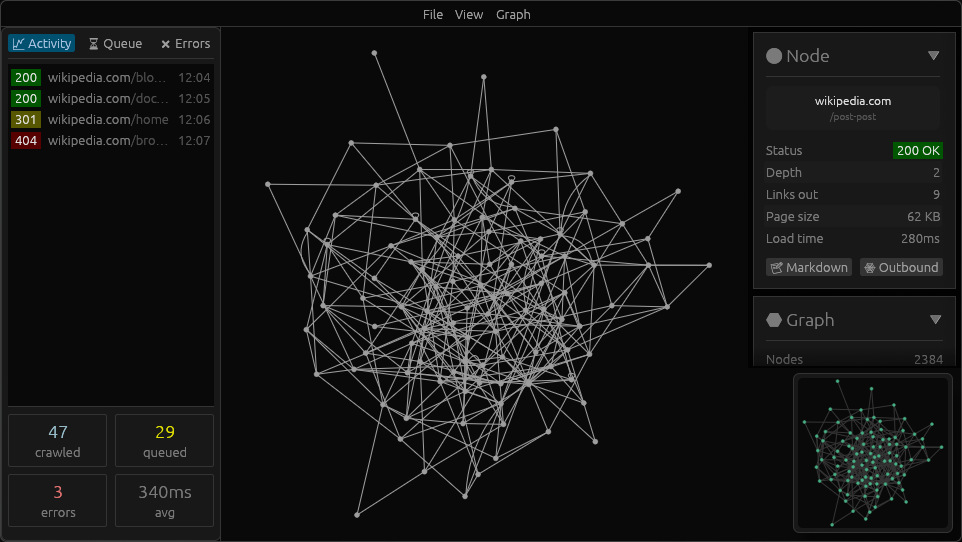
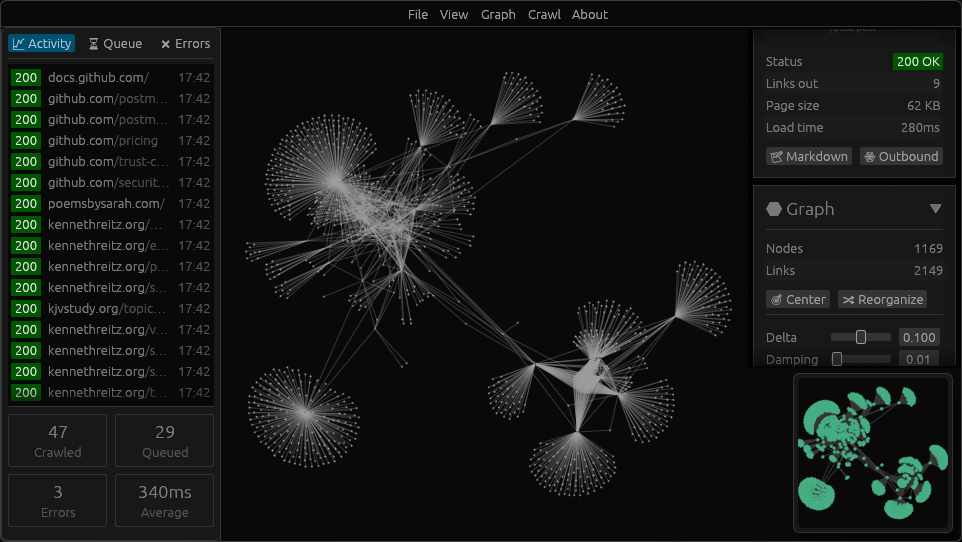
new screenshot. improved graph configs. small crawler http fix

diff --git a/src/gui.rs b/src/gui.rs
@@ -65,6 +65,7 @@ pub struct ViewEgui {
     hubs_expanded: bool,
     broken_expanded: bool,
     graph_expanded: bool,
+    graph_show_advanced: bool,
     //
     show_crawl_window: bool,
     crawl_input_url: String,
@@ -118,9 +119,9 @@ eheu lupos ferocis raptatur altis bicorni Flentibus soror! Scilicet tollit.
         let state = GraphState {
             is_running: true,
             //
-            delta: 0.100, // delta: 0.050,
-            damping: 0.01, // damping: 0.30,
-            max_step: 3.0, // max_step: 10.0,
+            delta: 0.100,   // delta: 0.050,
+            damping: 0.01,  // damping: 0.30,
+            max_step: 3.0,  // max_step: 10.0,
             epsilon: 0.015, // epsilon: 0.0010,
             //
             k_scale: 3.0, // k_scale: 1.0,
@@ -144,6 +145,7 @@ eheu lupos ferocis raptatur altis bicorni Flentibus soror! Scilicet tollit.
             hubs_expanded: true,
             broken_expanded: true,
             graph_expanded: true,
+            graph_show_advanced: true,
             //
             show_crawl_window: false,
             crawl_input_url: String::from("https://httpbin.org/"),
@@ -282,6 +284,8 @@ impl ViewEgui {
             match message {
                 AppResponse::Crawler(event) => match event {
                     // TODO: clean this up
+                    // TODO: instead of a node per url, have the nodes be domains and when
+                    // clicking in one a new graph is shown for all the /path pages in it.
                     CrawlEvent::Page(metadata) => {
                         // activity tab.
                         // push element. limit the ammount.
@@ -435,13 +439,12 @@ impl ViewEgui {
                             });
 
                             ui.menu_button("Graph", |ui| {
-                                if ui.button("🔄 Center").clicked() {
+                                if ui.button("🎯 Center").clicked() {
                                     self.free_graph_movement = !self.free_graph_movement;
                                     println!("Center");
                                 }
-                                if ui.button("🔄 Reorganize").clicked() {
-                                    // TODO:
-                                    // Self::distribute_nodes_circle_generic(&mut self.graph);
+                                if ui.button("🔀 Reorganize").clicked() {
+                                    Self::distribute_nodes_circle_generic(&mut self.graph);
                                     println!("Reorganize");
                                 }
                             });
@@ -633,7 +636,12 @@ impl ViewEgui {
                                                                     ui.spacing_mut()
                                                                         .item_spacing
                                                                         .x = 0.0;
-                                                                    ui.label(entry.domain.clone());
+                                                                    ui.add(
+                                                                        egui::Label::new(
+                                                                            entry.domain.clone(),
+                                                                        )
+                                                                        .truncate(),
+                                                                    );
                                                                     let weak_color = ui
                                                                         .visuals()
                                                                         .weak_text_color();
@@ -1168,6 +1176,9 @@ impl ViewEgui {
                                 ui.separator();
                                 ui.add_space(4.0);
                                 //
+                                let spacing = ui.spacing_mut();
+                                spacing.slider_width = 60.0; // Adjust this number until it fits your card
+                                //
                                 egui::Grid::new("graph_details_grid")
                                     .num_columns(2)
                                     .striped(true)
@@ -1191,82 +1202,104 @@ impl ViewEgui {
 
                                 ui.horizontal(|ui| {
                                     // NOTE: icons needed
-                                    if ui.button("@ Center").clicked() {
+                                    if ui.button("🎯 Center").clicked() {
                                         self.free_graph_movement = !self.free_graph_movement;
                                     }
-                                    if ui.button("@ Reorganize").clicked() {
+                                    if ui.button("🔀 Reorganize").clicked() {
                                         Self::distribute_nodes_circle_generic(&mut self.graph);
                                     }
                                 });
+
+                                ui.separator();
+                                ui.add_space(8.0);
                                 ///////////////
-                                let mut state = egui_graphs::get_layout_state::<
-                                    FruchtermanReingoldWithCenterGravityState,
-                                >(ui, None);
+                                if self.graph_show_advanced {
+                                    let mut state = egui_graphs::get_layout_state::<
+                                        FruchtermanReingoldWithCenterGravityState,
+                                    >(ui, None);
 
-                                ui.horizontal(|ui| {
-                                    ui.checkbox(&mut self.graph_state.is_running, "running");
-                                });
-                                ui.horizontal(|ui| {
-                                    ui.add(
-                                        egui::Slider::new(&mut self.graph_state.delta, 0.001..=0.2), // .text("dt"),
-                                    );
-                                });
-                                ui.horizontal(|ui| {
-                                    ui.add(
-                                        egui::Slider::new(&mut self.graph_state.damping, 0.0..=1.0), // .text("damping"),
-                                    );
-                                });
-                                ui.horizontal(|ui| {
-                                    ui.add(
-                                        egui::Slider::new(
-                                            &mut self.graph_state.max_step,
-                                            0.1..=50.0,
-                                        ), // .text("max_step"),
-                                    );
-                                });
-                                ui.horizontal(|ui| {
-                                    ui.add(
-                                        egui::Slider::new(
-                                            &mut self.graph_state.epsilon,
-                                            1e-5..=1e-1,
-                                        )
-                                        .logarithmic(true), // .text("epsilon"),
-                                    );
-                                });
-                                ui.horizontal(|ui| {
-                                    ui.add(egui::Slider::new(
-                                        &mut self.graph_state.k_scale,
-                                        0.2..=3.0,
-                                    ));
-                                });
-                                ui.horizontal(|ui| {
-                                    ui.add(egui::Slider::new(
-                                        &mut self.graph_state.c_attract,
-                                        0.1..=3.0,
-                                    ));
-                                });
-                                ui.horizontal(|ui| {
-                                    ui.add(egui::Slider::new(
-                                        &mut self.graph_state.c_repulse,
-                                        0.1..=3.0,
-                                    ));
-                                });
+                                    egui::Grid::new("physics_sliders_grid")
+                                        .num_columns(2)
+                                        .spacing([8.0, 4.0]) // Adjust horizontal/vertical spacing as needed
+                                        .show(ui, |ui| {
+                                            ui.label("Delta");
+                                            ui.add(egui::Slider::new(
+                                                &mut self.graph_state.delta,
+                                                0.001..=0.2,
+                                            ));
+                                            ui.end_row();
 
-                                // overwrite widget values
-                                state.base.is_running = self.graph_state.is_running;
-                                state.base.dt = self.graph_state.delta;
-                                state.base.damping = self.graph_state.damping;
-                                state.base.max_step = self.graph_state.max_step;
-                                state.base.epsilon = self.graph_state.epsilon;
-                                state.base.k_scale = self.graph_state.k_scale;
-                                state.base.c_attract = self.graph_state.c_attract;
-                                state.base.c_repulse = self.graph_state.c_repulse;
-                                state.extras.0.enabled = self.graph_state.has_center_gravity;
-                                state.extras.0.params.c = self.graph_state.center_strenght;
+                                            ui.label("Damping");
+                                            ui.add(egui::Slider::new(
+                                                &mut self.graph_state.damping,
+                                                0.0..=1.0,
+                                            ));
+                                            ui.end_row();
 
-                                egui_graphs::set_layout_state::<
-                                    FruchtermanReingoldWithCenterGravityState,
-                                >(ui, state, None);
+                                            ui.label("Max Step");
+                                            ui.add(egui::Slider::new(
+                                                &mut self.graph_state.max_step,
+                                                0.1..=50.0,
+                                            ));
+                                            ui.end_row();
+
+                                            ui.label("Epsilon");
+                                            ui.add(
+                                                egui::Slider::new(
+                                                    &mut self.graph_state.epsilon,
+                                                    1e-5..=1e-1,
+                                                )
+                                                .logarithmic(true),
+                                            );
+                                            ui.end_row();
+
+                                            ui.label("K Scale");
+                                            ui.add(egui::Slider::new(
+                                                &mut self.graph_state.k_scale,
+                                                0.2..=3.0,
+                                            ));
+                                            ui.end_row();
+
+                                            ui.label("C Attract");
+                                            ui.add(egui::Slider::new(
+                                                &mut self.graph_state.c_attract,
+                                                0.1..=3.0,
+                                            ));
+                                            ui.end_row();
+
+                                            ui.label("C Repulse");
+                                            ui.add(egui::Slider::new(
+                                                &mut self.graph_state.c_repulse,
+                                                0.1..=3.0,
+                                            ));
+                                            ui.end_row();
+
+                                            // TODO: consider adding a organize type dropdown to
+                                            // select the function to use when distributing nodes
+                                        });
+
+                                    // overwrite widget values
+                                    state.base.is_running = self.graph_state.is_running;
+                                    state.base.dt = self.graph_state.delta;
+                                    state.base.damping = self.graph_state.damping;
+                                    state.base.max_step = self.graph_state.max_step;
+                                    state.base.epsilon = self.graph_state.epsilon;
+                                    state.base.k_scale = self.graph_state.k_scale;
+                                    state.base.c_attract = self.graph_state.c_attract;
+                                    state.base.c_repulse = self.graph_state.c_repulse;
+                                    state.extras.0.enabled = self.graph_state.has_center_gravity;
+                                    state.extras.0.params.c = self.graph_state.center_strenght;
+
+                                    egui_graphs::set_layout_state::<
+                                        FruchtermanReingoldWithCenterGravityState,
+                                    >(ui, state, None);
+
+                                    ui.separator();
+                                }
+                                ui.horizontal(|ui| {
+                                    ui.checkbox(&mut self.graph_state.is_running, "Animated");
+                                    ui.checkbox(&mut self.graph_show_advanced, "Advanced");
+                                });
                                 ///////////////
                             }
                         });

diff --git a/src/crawler.rs b/src/crawler.rs
@@ -1,5 +1,5 @@
-use reqwest::{Client};
-pub use reqwest::{Url, StatusCode};
+use reqwest::Client;
+pub use reqwest::{StatusCode, Url};
 use scraper::{Html, Selector};
 use std::collections::HashSet;
 use std::error::Error;
@@ -15,7 +15,7 @@ use tokio::task::JoinError;
 #[derive(Clone)]
 pub enum CrawlCommand {
     Request(CrawlRequest), // starts a crawl of a defined depth
-    Terminate, // WARN: do we need an explict Terminate command?
+    Terminate,             // WARN: do we need an explict Terminate command?
 }
 
 // TODO: only inform a queued page if sure you gonna crawl it
@@ -388,16 +388,16 @@ impl WebCrawler {
             if let Some(href) = element.value().attr("href") {
                 //
                 if let Ok(mut absolute_url) = source.join(href) {
-                        // Only accept standard web protocols
-                        let scheme = absolute_url.scheme();
-                        if scheme == "http" || scheme == "https" {
-                    // remove headers (page.com/article#header -> page.com/article)
-                    absolute_url.set_fragment(None);
-                    // remove query parameters (?action=edit)
-                    // NOTE: this filters some valid links (like youtube.com/watch?v=video_id)
-                    absolute_url.set_query(None);
-                    //
-                    extracted_urls.insert(absolute_url);
+                    // Only accept standard web protocols
+                    let scheme = absolute_url.scheme();
+                    if scheme == "http" || scheme == "https" {
+                        // remove headers (page.com/article#header -> page.com/article)
+                        absolute_url.set_fragment(None);
+                        // remove query parameters (?action=edit)
+                        // NOTE: this filters some valid links (like youtube.com/watch?v=video_id)
+                        absolute_url.set_query(None);
+                        //
+                        extracted_urls.insert(absolute_url);
                     }
                 }
             }